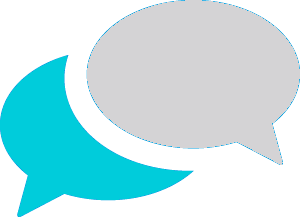
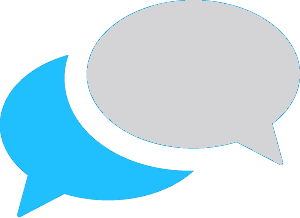
font deeper blue

Changed region(s): [[0.0, 0.2477, 0.66, 0.9908]]

diff --git a/src/app/history/history.component.css b/src/app/history/history.component.css
@@ -29,6 +29,6 @@ td {
 }
 
 td > a {
-    color: rgb(0, 204, 219);
+    color: rgb(32, 192, 255);
     font-weight: bold;
 }

diff --git a/src/app/home/home.component.css b/src/app/home/home.component.css
@@ -19,7 +19,7 @@ li {
 }
 
 a {
-    color: rgb(0, 204, 219);
+    color: rgb(32, 192, 255);
     font-weight: bolder;
 }
 
